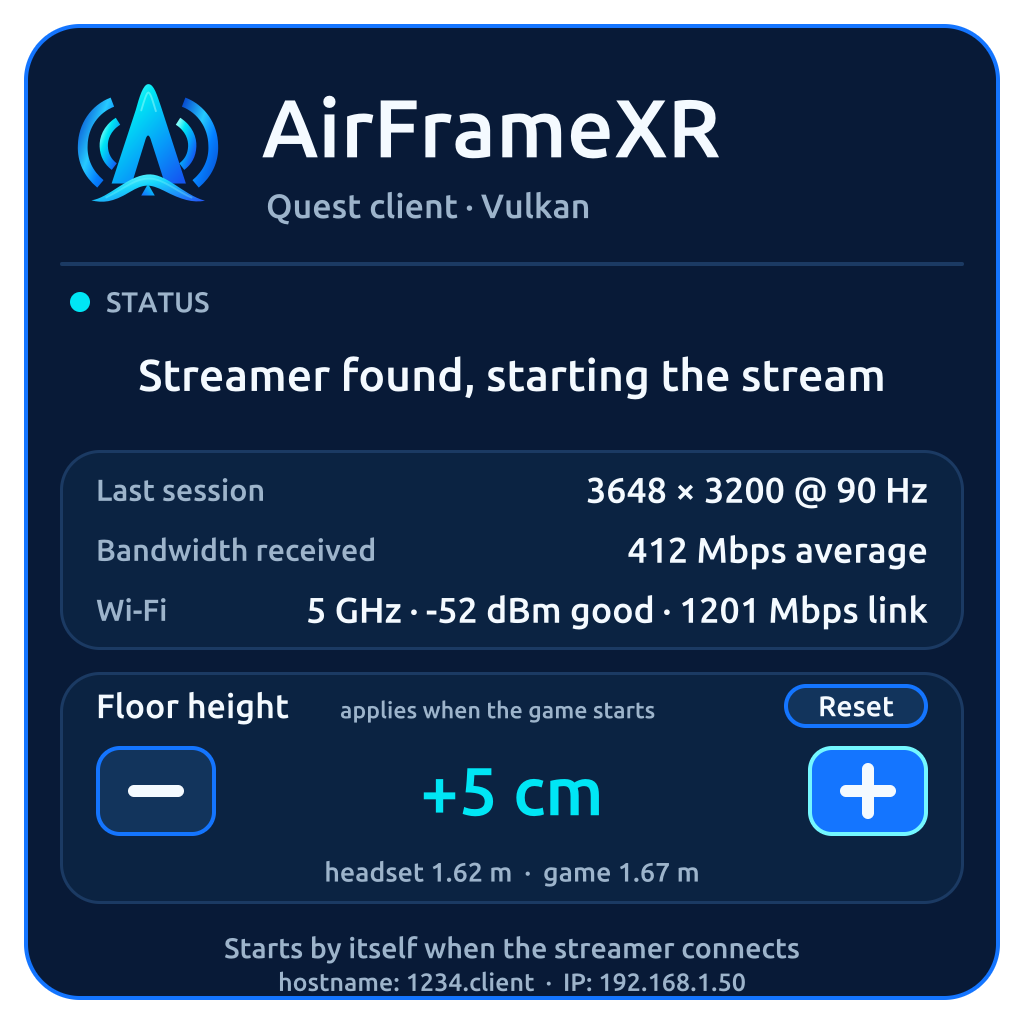
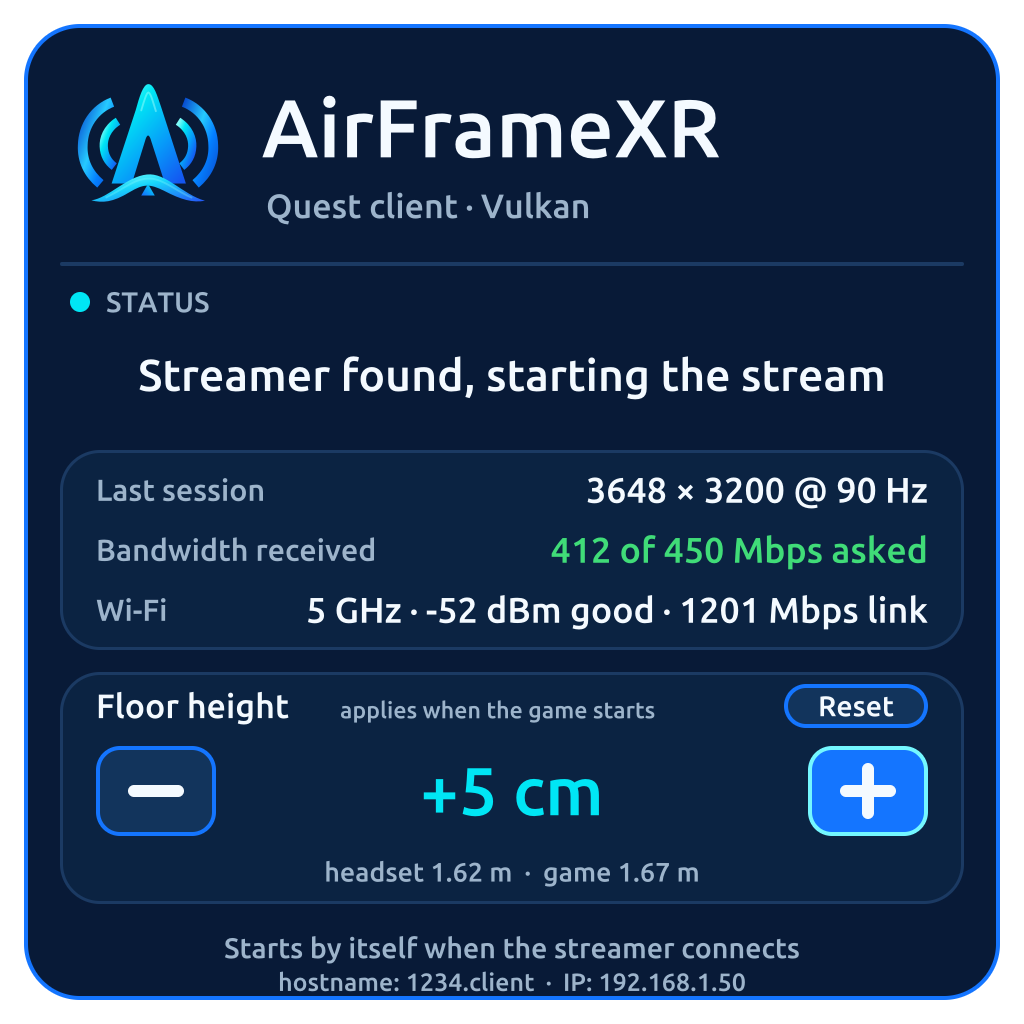
Quest panel: requested constant bitrate vs bandwidth really received, green at >= 85 %, red below

Changed region(s): [[0.5312, 0.5, 0.9062, 0.5625]]

diff --git a/alvr/graphics/src/panel.rs b/alvr/graphics/src/panel.rs
@@ -35,6 +35,8 @@ const CYAN: Rgba = [0, 230, 245, 255];
 const WHITE: Rgba = [244, 250, 255, 255];
 const MUTED: Rgba = [157, 180, 203, 255];
 const AMBER: Rgba = [255, 184, 64, 255];
+const GREEN: Rgba = [64, 220, 120, 255];
+const RED: Rgba = [255, 90, 90, 255];
 const BUTTON: Rgba = [18, 52, 92, 255];
 
 #[derive(Clone, Copy, PartialEq, Eq, Debug)]
@@ -81,6 +83,8 @@ pub struct PanelState {
     pub last_session: Option<(u32, u32, u32)>,
     /// Average video bandwidth really received during the last stream, Mbps
     pub last_bandwidth_mbps: Option<u32>,
+    /// Constant bitrate the streamer asked for in that stream (None: adaptive)
+    pub requested_mbps: Option<u32>,
     /// Wi-Fi link: frequency (MHz), signal (dBm), link speed (Mbps)
     pub wifi: Option<(u32, i32, u32)>,
     pub hovered: Option<PanelButton>,
@@ -308,6 +312,9 @@ impl Canvas {
     }
 }
 
+/// Share of the requested bitrate the last stream must have carried to show green
+const BANDWIDTH_OK: f32 = 0.85;
+
 /// Signal word and colour for a Wi-Fi level in dBm (the usual Android thresholds)
 fn wifi_quality(dbm: i32) -> (&'static str, Rgba) {
     match dbm {
@@ -488,7 +495,21 @@ pub(crate) fn render(static_layer: &[u8], state: &PanelState) -> Vec<u8> {
         None => value(&mut canvas, "none yet", MUTED, 490.0),
     }
     match state.last_bandwidth_mbps {
-        Some(mbps) => value(&mut canvas, &format!("{mbps} Mbps average"), WHITE, 550.0),
+        Some(mbps) => match state.requested_mbps {
+            // Green when the stream carried at least 85 % of the request, red below: the network
+            // dropped it, or the picture was too still to need it
+            Some(asked) => value(
+                &mut canvas,
+                &format!("{mbps} of {asked} Mbps asked"),
+                if mbps as f32 >= asked as f32 * BANDWIDTH_OK {
+                    GREEN
+                } else {
+                    RED
+                },
+                550.0,
+            ),
+            None => value(&mut canvas, &format!("{mbps} Mbps average"), WHITE, 550.0),
+        },
         None => value(&mut canvas, "none yet", MUTED, 550.0),
     }
     match state.wifi {
@@ -548,6 +569,7 @@ mod tests {
             offset_cm: 5,
             last_session: Some((3648, 3200, 90)),
             last_bandwidth_mbps: Some(412),
+            requested_mbps: Some(450),
             wifi: Some((5805, -52, 1201)),
             hovered: Some(PanelButton::Plus),
             ..Default::default()

diff --git a/alvr/client_core/src/connection.rs b/alvr/client_core/src/connection.rs
@@ -19,7 +19,7 @@ use alvr_packets::{
     ServerControlPacket, StreamConfigPacket, Tracking, VideoPacketHeader,
     VideoStreamingCapabilities, AUDIO, HAPTICS, STATISTICS, TRACKING, VIDEO,
 };
-use alvr_session::{settings_schema::Switch, SocketProtocol};
+use alvr_session::{settings_schema::Switch, BitrateMode, SocketProtocol};
 use alvr_sockets::{
     ControlSocketSender, PeerType, ProtoControlSocket, StreamSender, StreamSocketBuilder,
     KEEPALIVE_INTERVAL, KEEPALIVE_TIMEOUT,
@@ -261,6 +261,13 @@ fn connection_pipeline(
 
     let settings = stream_config.settings;
     let negotiated_config = stream_config.negotiated_config;
+
+    // What the streamer asks for, to compare with what arrives (welcome panel)
+    crate::set_last_requested_mbps(match &settings.video.bitrate.mode {
+        BitrateMode::ConstantMbps(mbps) => Some(*mbps as u32),
+        // Adaptive: no fixed request
+        BitrateMode::Adaptive { .. } => None,
+    });
 
     *ctx.velocities_multiplier.write() = settings.extra.velocities_multiplier;
     *ctx.max_prediction.write() = Duration::from_millis(settings.headset.max_prediction_ms);

diff --git a/alvr/client_openxr/src/lobby.rs b/alvr/client_openxr/src/lobby.rs
@@ -86,6 +86,7 @@ impl Lobby {
             offset_cm: alvr_client_core::height_offset_cm(),
             last_session: alvr_client_core::last_session().map(|s| (s.width, s.height, s.hz)),
             last_bandwidth_mbps: alvr_client_core::last_bandwidth_mbps(),
+            requested_mbps: alvr_client_core::last_requested_mbps(),
             ..Default::default()
         };
         panel_state.set_hud_message(initial_hud_message);
@@ -302,6 +303,7 @@ impl Lobby {
             self.last_wifi_read = Some(now);
             // The stream's bandwidth is saved as its video thread ends, maybe after the stop event
             self.panel_state.last_bandwidth_mbps = alvr_client_core::last_bandwidth_mbps();
+            self.panel_state.requested_mbps = alvr_client_core::last_requested_mbps();
             self.panel_state.wifi = alvr_system_info::wifi_link().map(|w| {
                 (
                     w.frequency_mhz as u32,

diff --git a/alvr/client_core/src/storage.rs b/alvr/client_core/src/storage.rs
@@ -33,6 +33,10 @@ pub struct Config {
     /// Average video bandwidth really received during the last stream (Mbps)
     #[serde(default)]
     pub last_bandwidth_mbps: Option<u32>,
+
+    /// Constant bitrate the streamer asked for in the last stream (Mbps); None = adaptive
+    #[serde(default)]
+    pub last_requested_mbps: Option<u32>,
 }
 
 #[derive(Clone, Copy, PartialEq, Eq, Serialize, Deserialize)]
@@ -58,6 +62,7 @@ impl Default for Config {
             height_offset_cm: 0,
             last_session: None,
             last_bandwidth_mbps: None,
+            last_requested_mbps: None,
         }
     }
 }

diff --git a/alvr/client_core/src/lib.rs b/alvr/client_core/src/lib.rs
@@ -85,6 +85,19 @@ pub(crate) fn set_last_bandwidth_mbps(mbps: u32) {
     config.store();
 }
 
+/// The constant bitrate the streamer asked for in the last stream, in Mbps (None: adaptive).
+pub fn last_requested_mbps() -> Option<u32> {
+    Config::load().last_requested_mbps
+}
+
+pub(crate) fn set_last_requested_mbps(mbps: Option<u32>) {
+    let mut config = Config::load();
+    if config.last_requested_mbps != mbps {
+        config.last_requested_mbps = mbps;
+        config.store();
+    }
+}
+
 pub enum ClientCoreEvent {
     UpdateHudMessage(String),
     StreamingStarted(Box<StreamConfig>),

diff --git a/QUEST_UI.md b/QUEST_UI.md
@@ -11,7 +11,7 @@ The picture is the real rasteriser (`alvr/graphics/src/panel.rs`) run on a PC wi
 - **Header:** the AirFrameXR mark and name, `Quest client · Vulkan` (no version text since 1.5.0).
 - **Last session:** per-eye resolution and refresh rate of the previous stream (`3648 × 3200 @ 90 Hz`, `none yet` before the first), saved in the client's `session.json` when a stream starts.
 - **Status:** the connection message (searching, connecting, stream starting, errors). The "Open ALVR ... click Trust" text is now "On the PC, click Find headset... and pick this headset", the AirFrameXR streamer's pairing step (`docs/INSTALL.md` of the AirFrameXR repo).
-- **Bandwidth received:** average video payload per second over the last stream (counted in the client's video receive thread, saved when the stream ends; streams under 10 s are ignored).
+- **Bandwidth received:** average video payload per second over the last stream (counted in the client's video receive thread, saved when the stream ends; streams under 10 s are ignored). With a constant bitrate the streamer's request (from the stream config) is shown too, `412 of 450 Mbps asked`: green when the stream carried at least 85 % of it, red below (network loss, or a picture too still to need it; the 85 % is a first guess, not measured). Adaptive bitrate: no request, white.
 - **Wi-Fi:** band, signal (dBm, word: excellent >= -50, good >= -60, fair >= -70, else weak; amber from fair) and link speed, read from Android's WifiManager every 2 s while the panel is shown. "not connected" when wired.
 - **Floor height**, the visionOS client's semantics: the headset's own height above the floor (live), a manual offset of -50..+50 cm in 1 cm steps (**-**, **+**, **Reset**; hold to repeat), and what the game will see (headset + offset).
 - **Small print:** hostname and IP of the headset.
